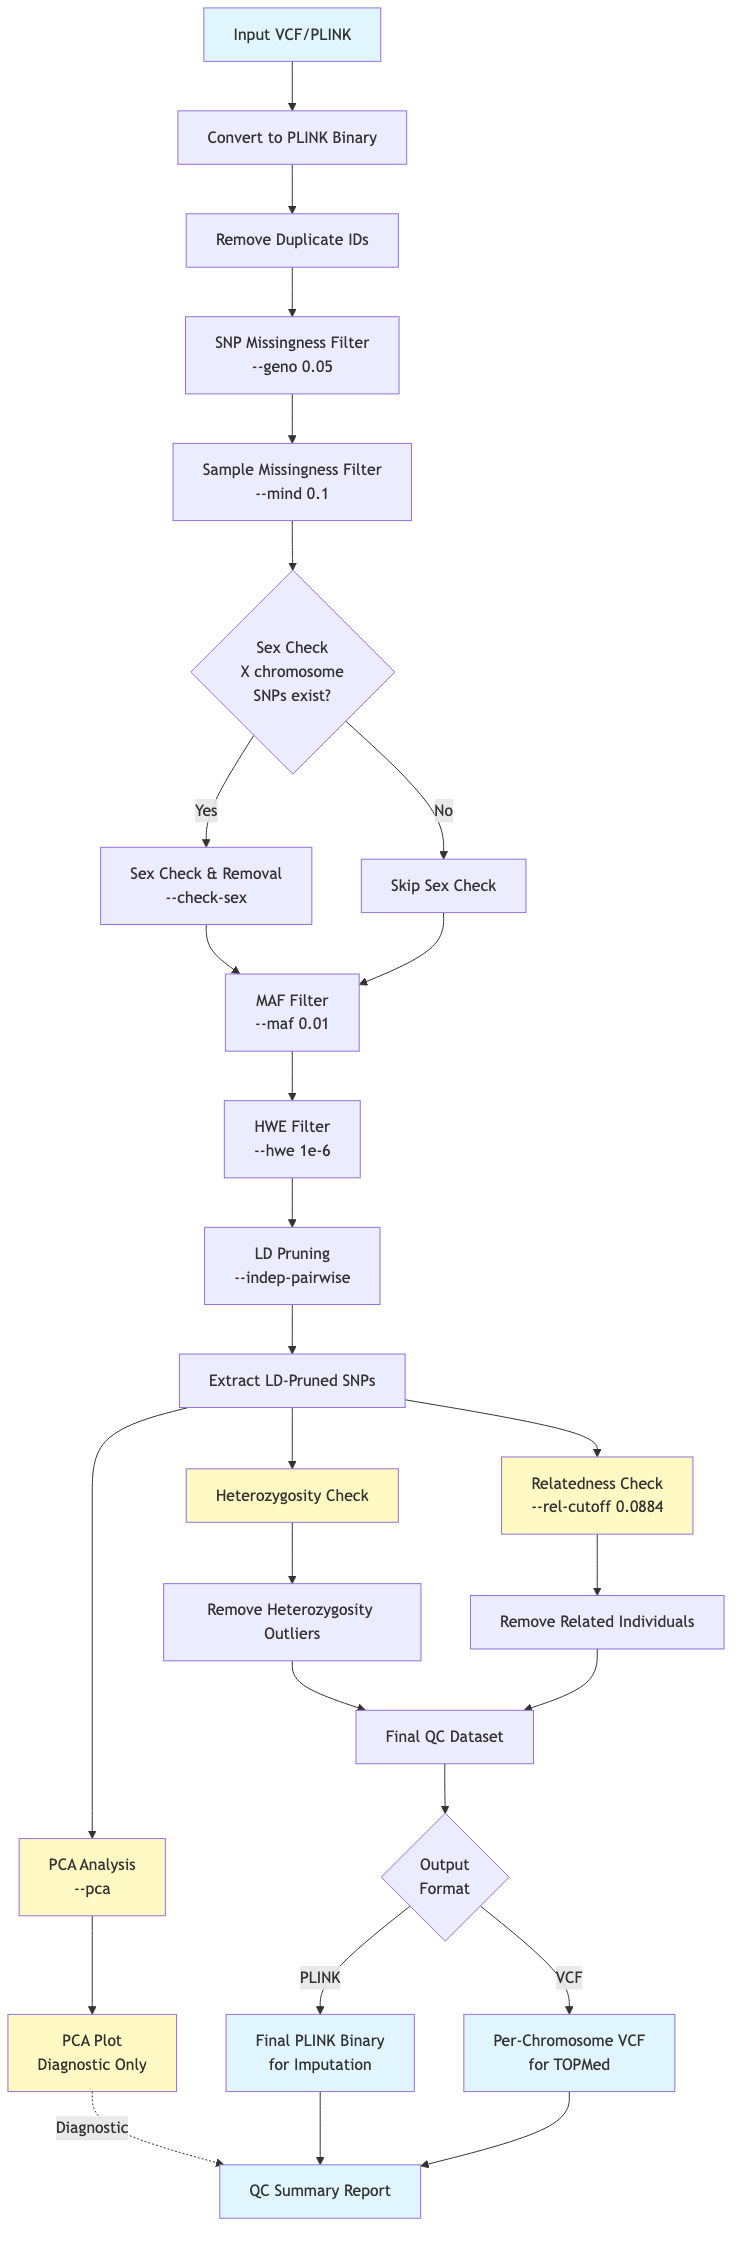
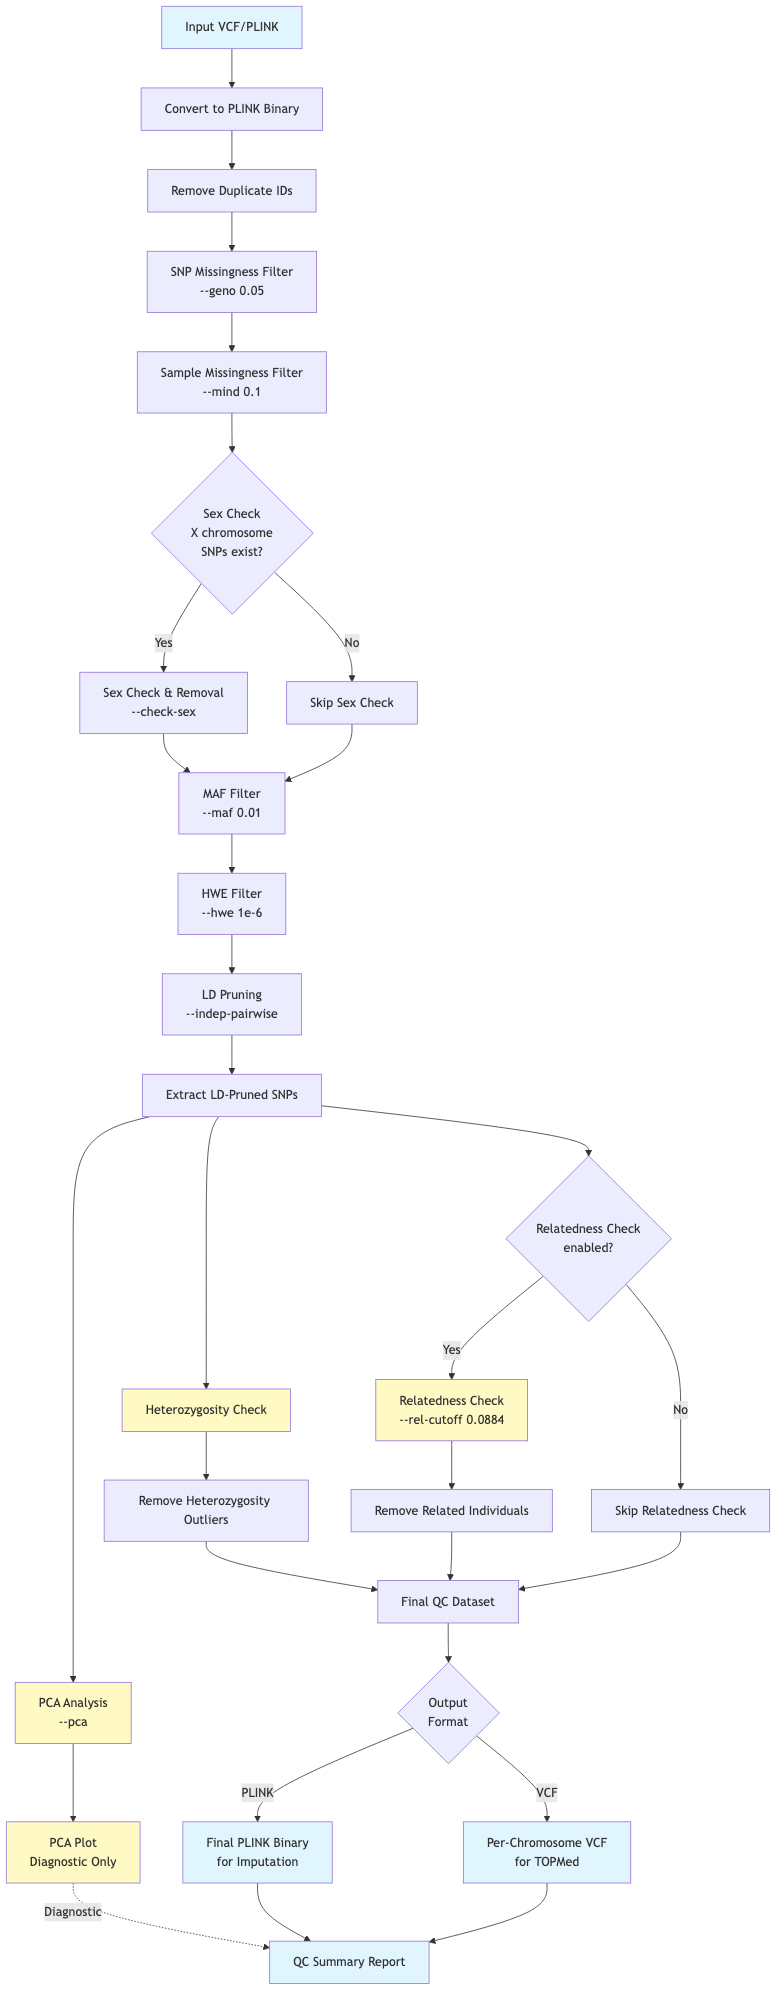
relatedness filter now optinal

diff --git a/doc/pipeline.md b/doc/pipeline.md
@@ -130,10 +130,9 @@ by Marees et al. (2018).
 Retains only chromosomes 1–22. Sex chromosomes and mitochondrial variants
 require specialised handling not included in this standard GWAS QC workflow.
 
-### Step 9 — Relatedness filtering
+### Step 9 — Relatedness filtering *(optional)*
 Cryptically related individuals (e.g. undisclosed family members, sample
-duplicates) violate the independence assumption in standard GWAS. Two methods
-are run on the LD-pruned SNPs:
+duplicates) violate the independence assumption in standard GWAS. Two methods are run on the LD-pruned SNPs:
 
 | Method | Tool | Metric | Use |
 |---|---|---|---|
@@ -143,6 +142,8 @@ are run on the LD-pruned SNPs:
 KING is preferred for removal decisions because it is robust to population
 stratification. A cutoff of 0.0884 corresponds approximately to 3rd-degree
 relatives (cousins).
+
+Set `run_relatedness_check = false` in the configuration json file to skip this step entirely — for example, when working with a cohort containing family trios. When skipped, the autosome-filtered dataset from step 8 passes directly to PCA.
 
 ### Step 10 — PCA *(diagnostic only)*
 Principal components are computed on the final QC-passed dataset using the
@@ -212,18 +213,18 @@ By default the pipeline expects `plink`, `plink2`, `Rscript`, `perl`, `bcftools`
 
 QC thresholds are defined in the json configuration file. The table lists values that are commonly used in similar pipelines.
 
-| Parameter | Meaning | Typical value |
+| Parameter | Meaning | Typical value | Remarks |
 |---|---|---|
-| `geno_threshold` | Max SNP missingness rate | `0.05` |
-| `mind_threshold` | Max sample missingness rate | `0.05` |
-| `hwe_pvalue` | Min HWE p-value | `1e-6` |
-| `maf_threshold` | Min MAF to retain a SNP | `0.01` |
-| `ld_r2` | Max r² for LD pruning | `0.2` |
-| `ld_window_kb` | LD pruning window size (kb) | `50` |
-| `ld_step` | LD pruning step size (SNPs) | `5` |
-| `pihat_min` | Min pi-hat to report a related pair | `0.2` |
-| `king_cutoff` | KING kinship cutoff for removal | `0.0884` |
-| `n_pcs` | Number of principal components to compute | `10` |
+| `geno_threshold` | Max SNP missingness rate | `0.05` | |
+| `mind_threshold` | Max sample missingness rate | `0.05` | |
+| `hwe_pvalue` | Min HWE p-value | `1e-6` | |
+| `maf_threshold` | Min MAF to retain a SNP | `0.01` | |
+| `ld_r2` | Max r² for LD pruning | `0.2` | |
+| `ld_window_kb` | LD pruning window size (kb) | `50` | |
+| `ld_step` | LD pruning step size (SNPs) | `5` | |
+| `pihat_min` | Min pi-hat to report a related pair | `0.2` | Only used if `run_relatedness_check = true` |
+| `king_cutoff` | KING kinship cutoff for removal | `0.0884` | Only used if `run_relatedness_check = true` |
+| `n_pcs` | Number of principal components to compute | `10` | |
 
 ---
 
@@ -234,27 +235,27 @@ Final QC-passed files are copied to `results/` after the run (see
 executor's working directory (`_miniwdl_run/` or `cromwell-executions/`) and
 can be deleted once the run is verified.
 
-| Output | Description |
+| Output | Description | Remarks |
 |---|---|
-| `pipeline_log` | Human-readable run summary: version, date, SNP/sample counts at each QC step |
-| `final_bed/bim/fam` | QC-passed dataset — use this for downstream analyses |
-| `sexcheck_report` | Full PLINK sex check results (if X SNPs present) |
-| `problem_samples` | Samples removed at sex check step |
-| `het_check_report` | Per-sample heterozygosity rates |
-| `het_fail_samples` | Samples removed at heterozygosity step |
-| `maf_plot` | MAF distribution and before/after barplot |
-| `maf_freq_before` | Allele frequencies before MAF filter (QC diagnostic) |
-| `maf_freq_after` | Allele frequencies after MAF filter (QC diagnostic) |
-| `pihat_genome` | All related pairs above `pihat_min` (informational) |
-| `king_cutoff_out_id` | Samples removed at relatedness step |
-| `prune_in` | LD-pruned SNP list (useful for PCA) |
-| `prune_out` | SNPs excluded by LD pruning |
-| `pca_eigenvec` | PC scores per sample |
-| `pca_eigenval` | Variance explained per PC |
-| `pca_plot` | Scatter plots of PC1–PC3 |
-| `imputation_vcfs` | Per-chromosome bgzipped VCFs for imputation server upload |
-| `imputation_vcf_tbis` | Tabix indices for imputation VCFs |
-| `check_bim_log` | Log from `HRC-1000G-check-bim.pl` |
+| `pipeline_log` | Human-readable run summary: version, date, SNP/sample counts at each QC step | |
+| `final_bed/bim/fam` | QC-passed dataset — use this for downstream analyses | |
+| `sexcheck_report` | Full PLINK sex check results (if X SNPs present) | |
+| `problem_samples` | Samples removed at sex check step | |
+| `het_check_report` | Per-sample heterozygosity rates | |
+| `het_fail_samples` | Samples removed at heterozygosity step | |
+| `maf_plot` | MAF distribution and before/after barplot | |
+| `maf_freq_before` | Allele frequencies before MAF filter (QC diagnostic) | |
+| `maf_freq_after` | Allele frequencies after MAF filter (QC diagnostic) | |
+| `pihat_genome` | All related pairs above `pihat_min` (informational) | Only present if `run_relatedness_check = true`|
+| `king_cutoff_out_id` | Samples removed at relatedness step | Only present if `run_relatedness_check = true` |
+| `prune_in` | LD-pruned SNP list (useful for PCA) | |
+| `prune_out` | SNPs excluded by LD pruning | |
+| `pca_eigenvec` | PC scores per sample | |
+| `pca_eigenval` | Variance explained per PC | |
+| `pca_plot` | Scatter plots of PC1–PC3 | |
+| `imputation_vcfs` | Per-chromosome bgzipped VCFs for imputation server upload | |
+| `imputation_vcf_tbis` | Tabix indices for imputation VCFs | |
+| `check_bim_log` | Log from `HRC-1000G-check-bim.pl` | |
 
 ---
 
@@ -290,6 +291,8 @@ cpanm Term::ReadKey
 
 - R packages: dplyr, ggplot2, patchwork, scales
 
+- TODO: conda environment file with all dependencies specified, including R packages.
+
 ### 2. Create an inputs JSON file
 
 ```json
@@ -314,6 +317,7 @@ cpanm Term::ReadKey
   "genotype_qc_preimputation.ld_r2":                     0.2,
   "genotype_qc_preimputation.ld_window_kb":              50,
   "genotype_qc_preimputation.ld_step":                   5,
+  "genotype_qc_preimputation.run_relatedness_check":     true,
   "genotype_qc_preimputation.pihat_min":                 0.2,
   "genotype_qc_preimputation.king_cutoff":               0.0884,
   "genotype_qc_preimputation.n_pcs":                     10

diff --git a/README.md b/README.md
@@ -37,3 +37,7 @@ java -jar cromwell-85.jar run src/genotype_qc_imputation.wdl -i inputs.json
 
 ```
 
+# TODO
+
+- pruning and pcr before and after relationship check.
+- include X-chromosome in the pipeline.
